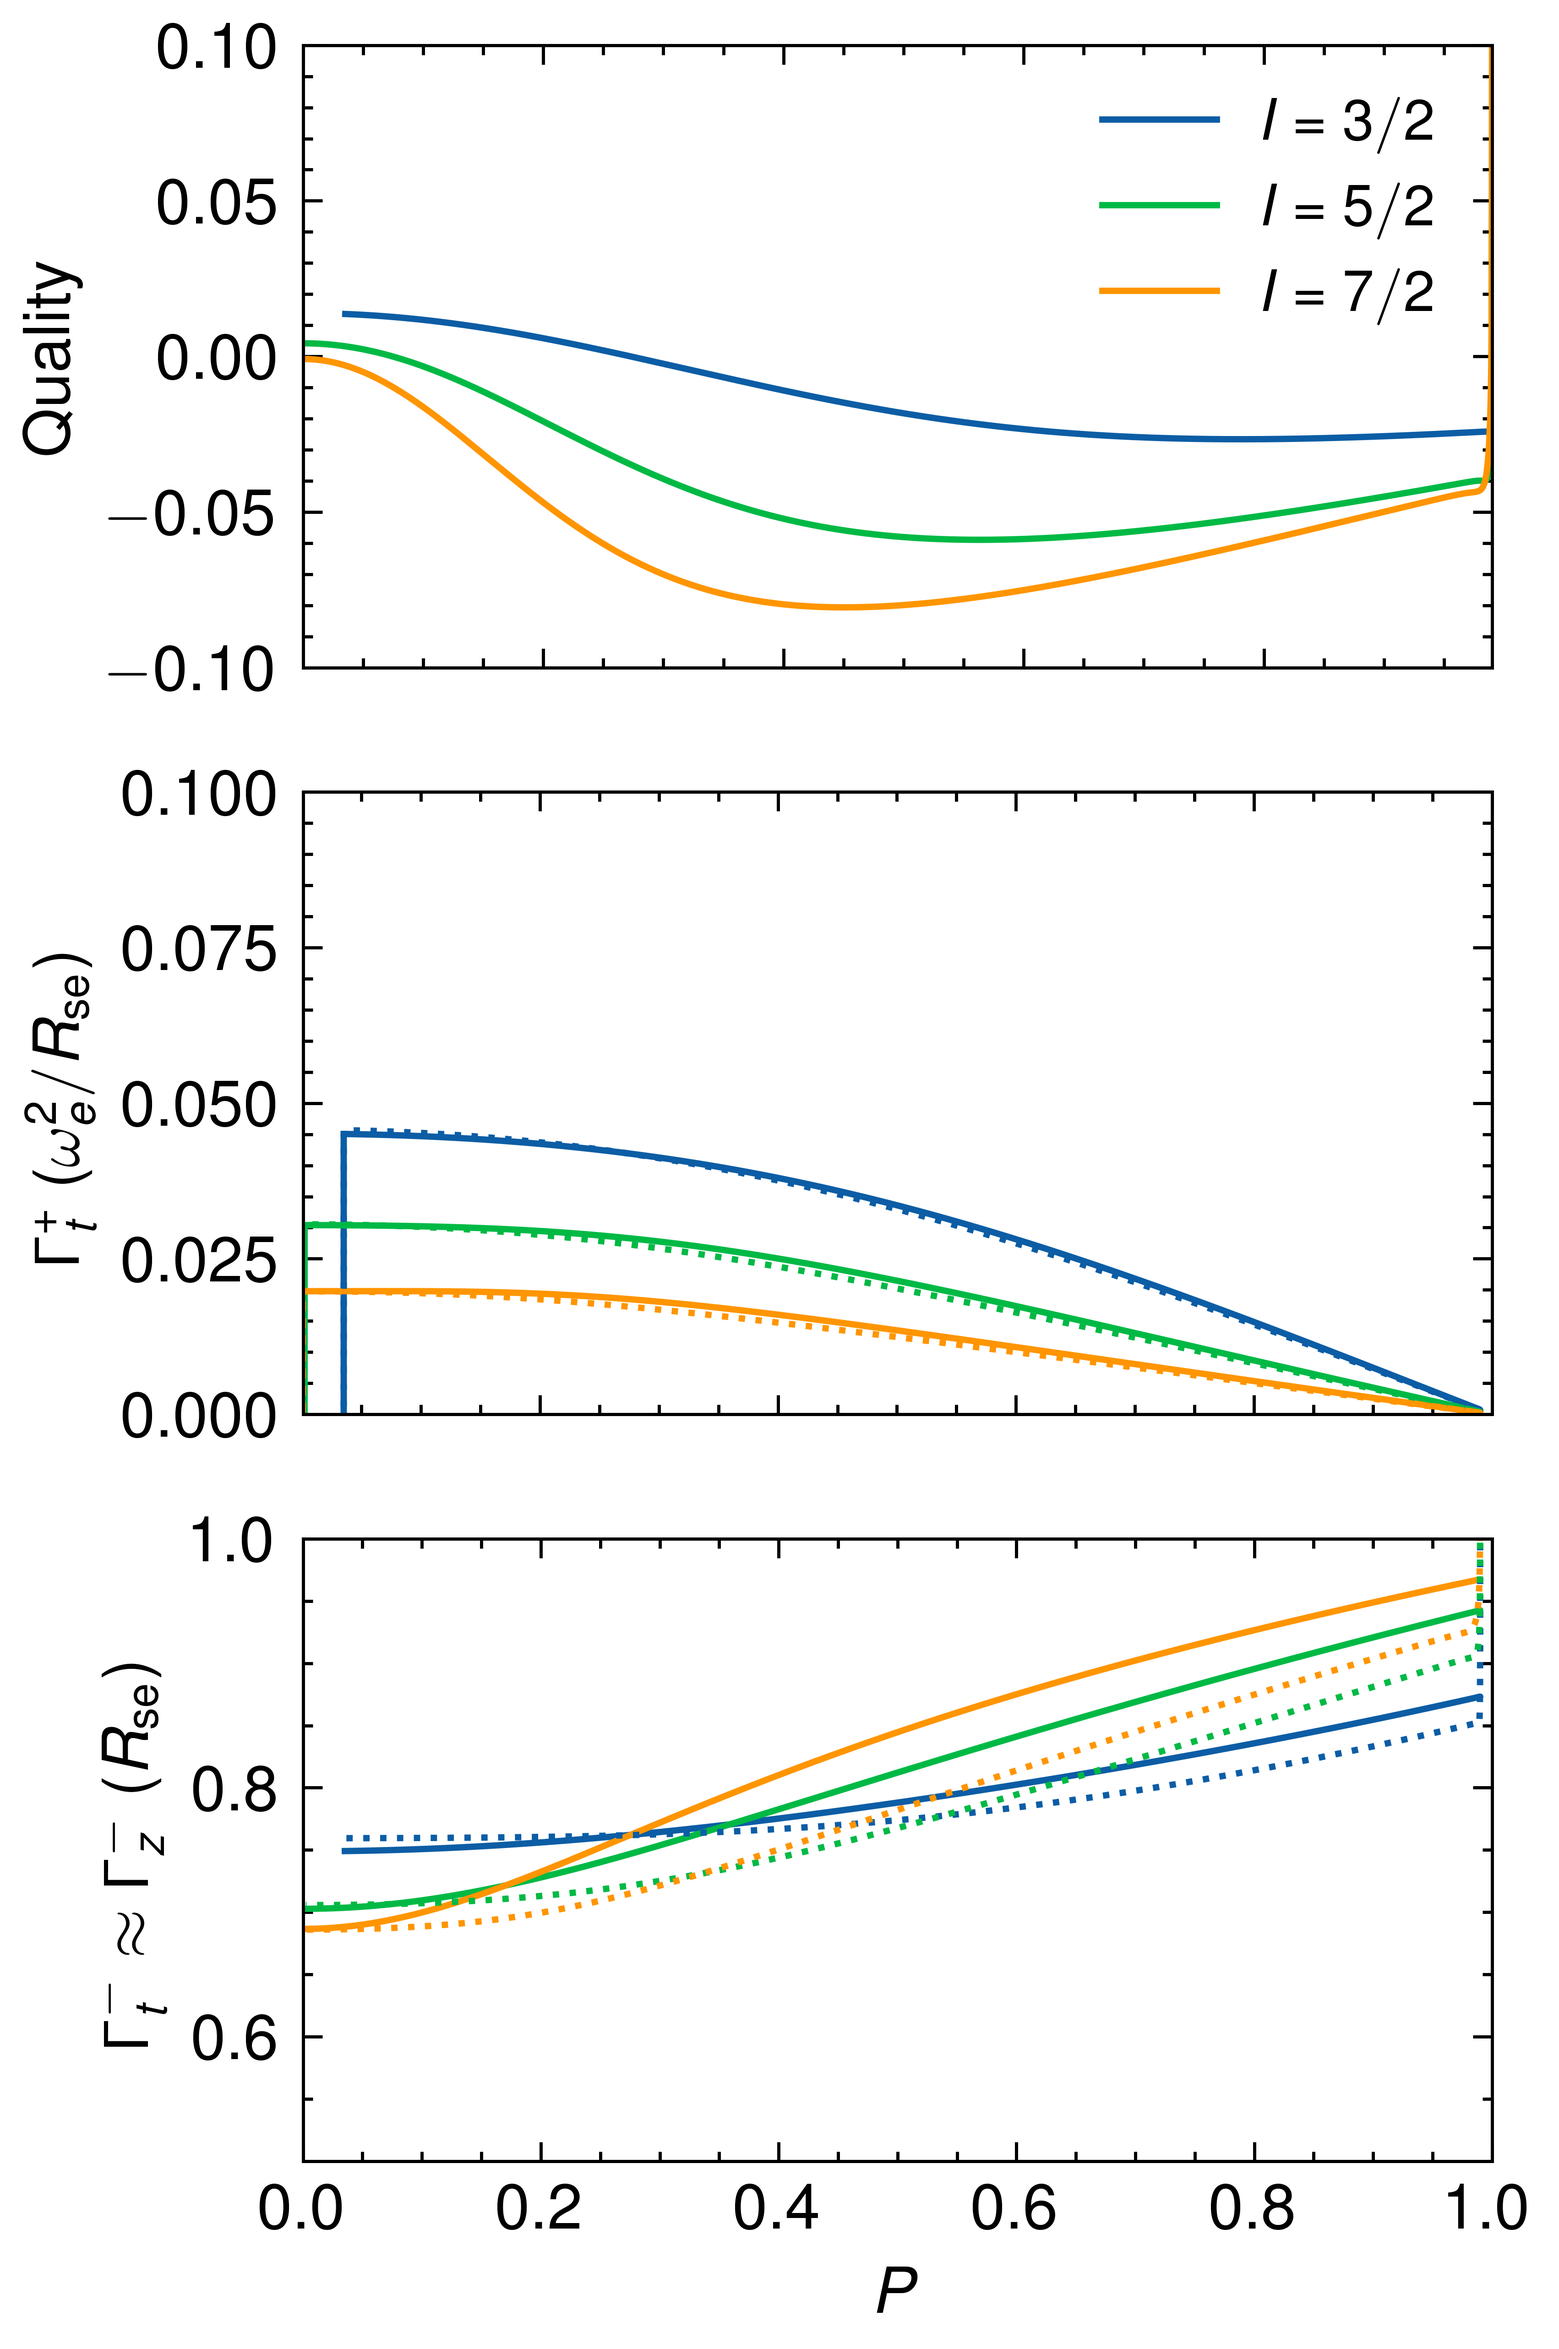
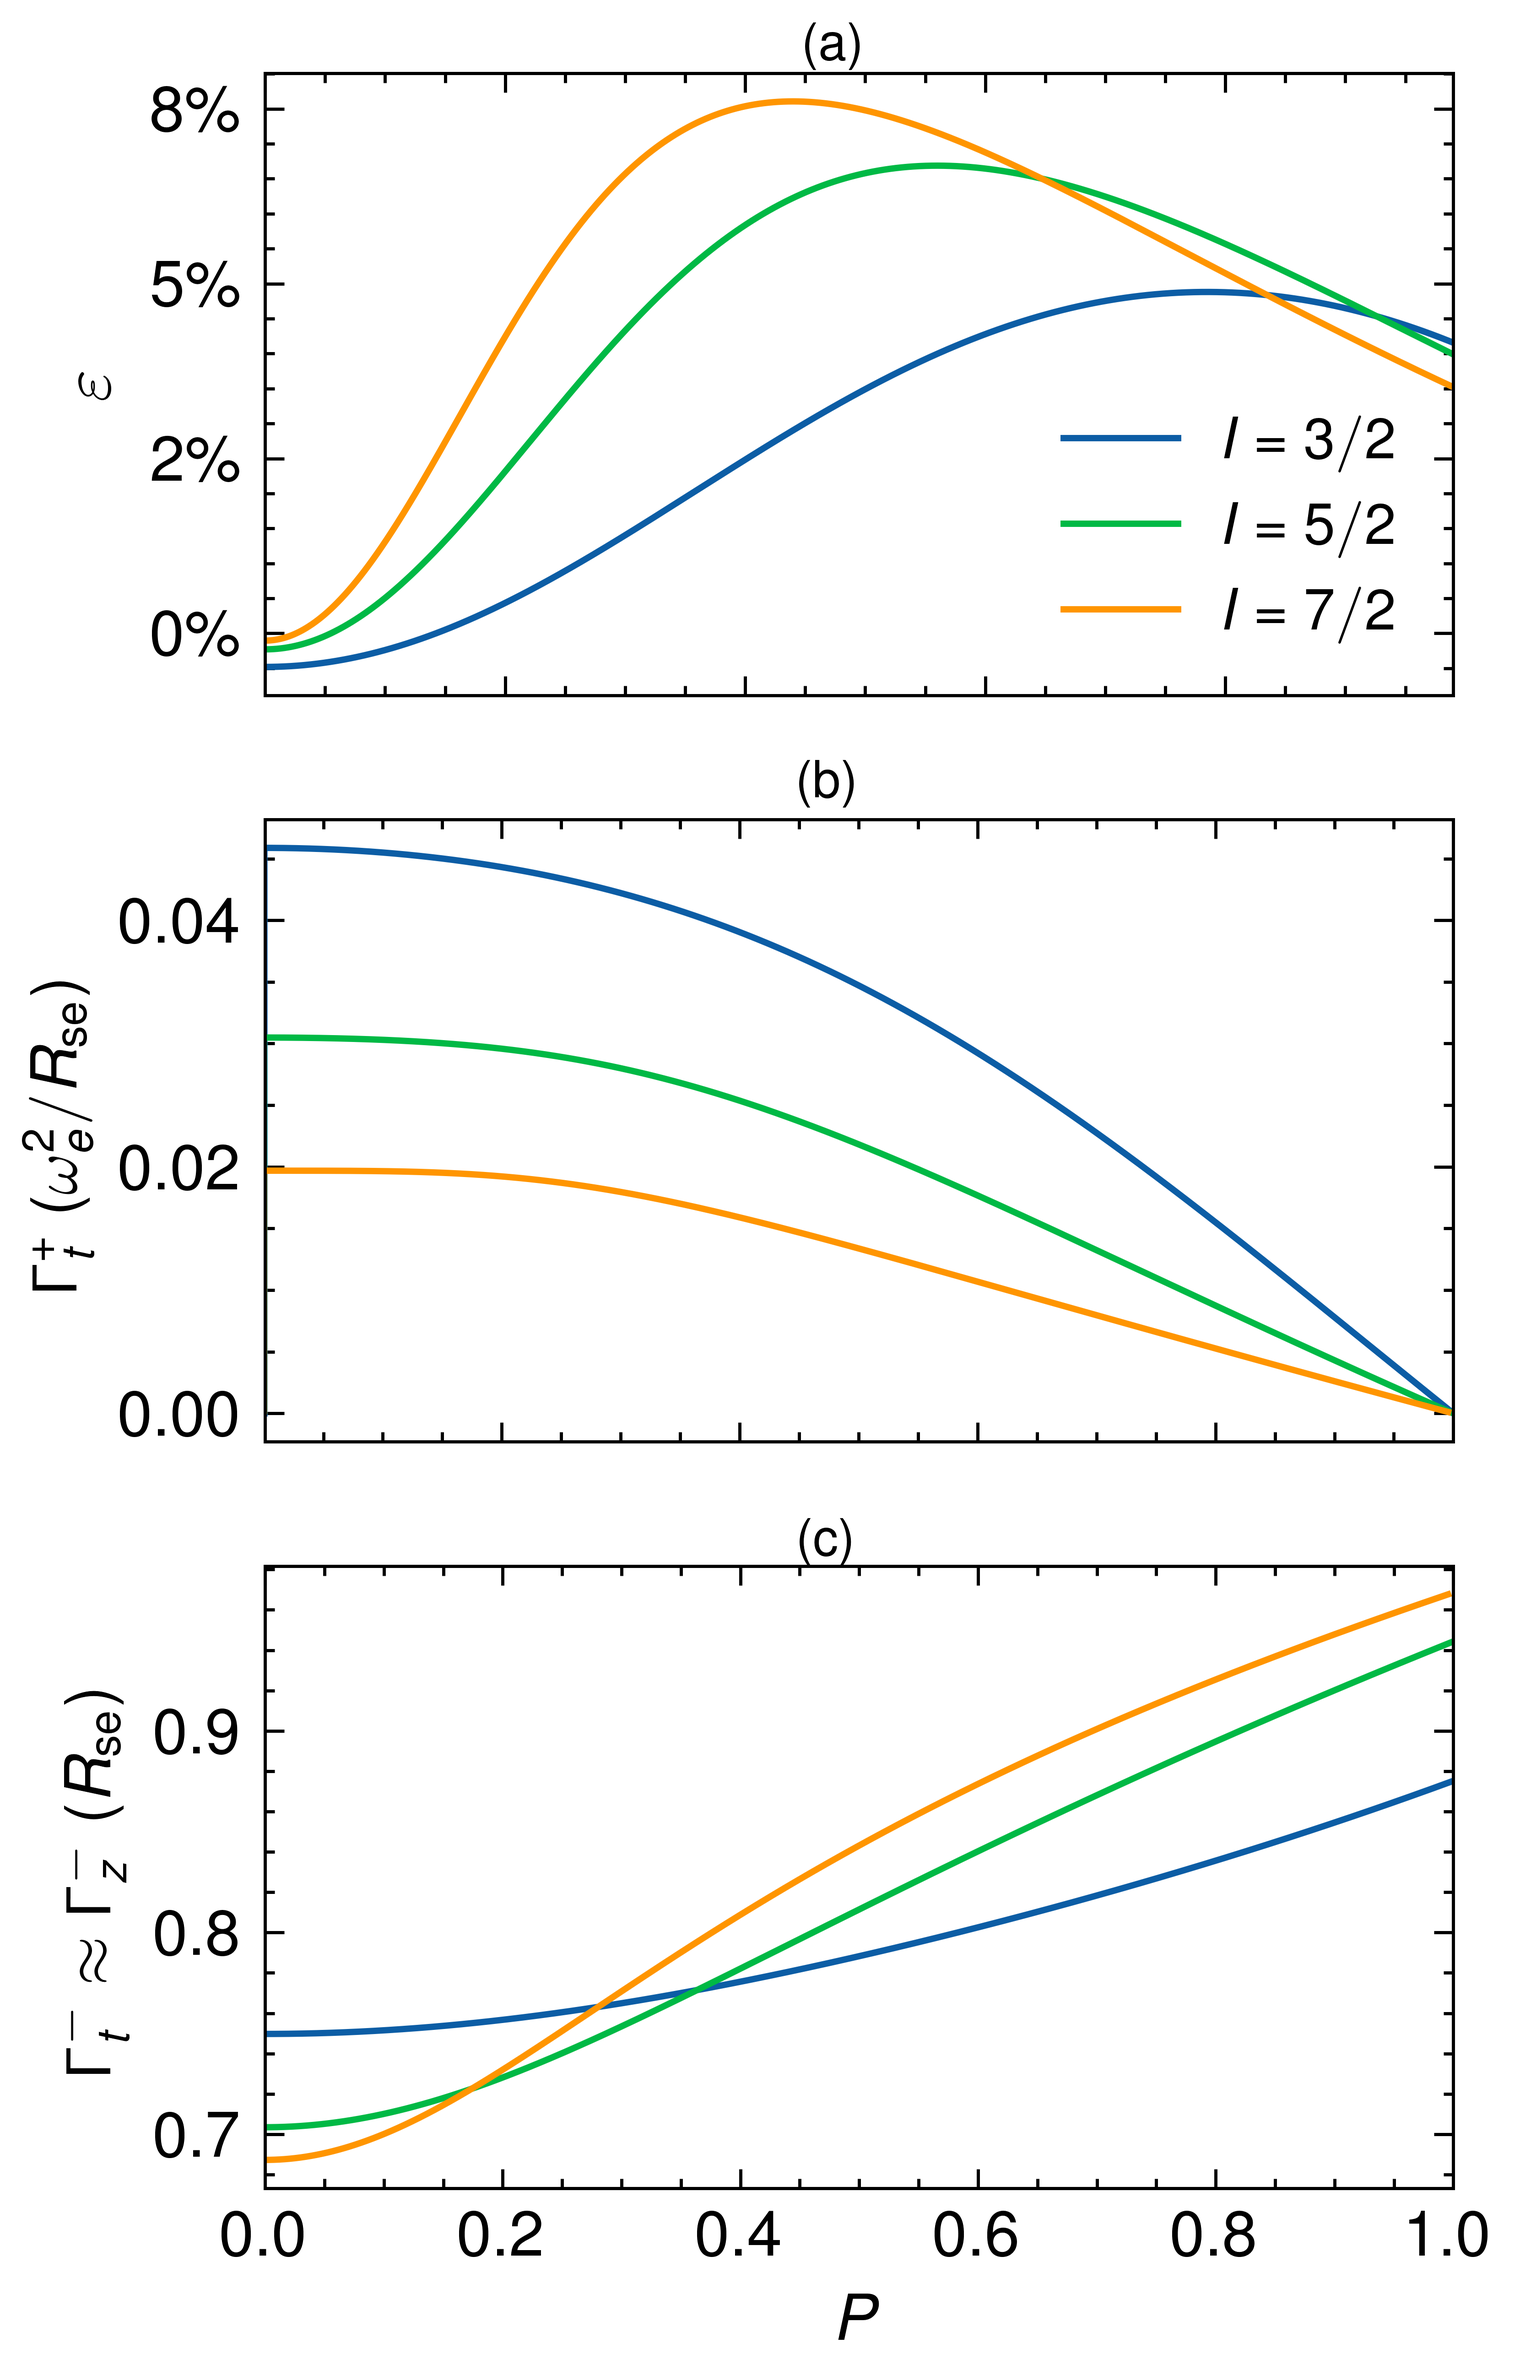
9

diff --git a/Gamma.py b/Gamma.py
@@ -8,15 +8,15 @@ from my_functions.master_relaxationrate import masterequation
 from scipy.linalg import *
 import numpy as np
 from my_functions.test7_copy import gammam
+from matplotlib import ticker
 
 I=3/2
-omega_0=0.01
 a = round(I + 1 / 2)
 b = round(I - 1 / 2)
 
-PP1,DD1=masterequation(3/2,round(6e4),0.1,0.99)
-PP2,DD2=masterequation(5/2,round(6e4),0.1,0.99)
-PP3,DD3=masterequation(7/2,round(6e4),0.1,0.99)
+PP1,DD1=masterequation(3/2,round(5e5),0.05,0.999)
+PP2,DD2=masterequation(5/2,round(5e5),0.05,0.999)
+PP3,DD3=masterequation(7/2,round(5e5),0.05,0.999)
 
 z=gammam(3/2,PP1)
 zz=gammam(5/2,PP2)
@@ -37,9 +37,13 @@ eta3=(q3+8)/(q3-8)
 fp3 = (q3-8)**2*(q3+8)/(2*64*q3**3)#*(q3+8)/(q3-8)
 fm3 =  2*q3/(q3-8)#*(q3-8)/(q3+8)
 
-kappa1=(fp1/DD1-z/fm1)/2
-kappa2=(fp2/DD2-zz/fm2)/2
-kappa3=(fp3/DD3-zzz/fm3)/2
+# kappa1=(fp1/DD1-z/fm1)/2
+# kappa2=(fp2/DD2-zz/fm2)/2
+# kappa3=(fp3/DD3-zzz/fm3)/2
+
+kappa1=(-z/fm1)
+kappa2=(-zz/fm2)
+kappa3=(-zzz/fm3)
 
 Gammap1=4*eta1/(kappa1*16*(1+eta1)**3)
 Gammap2=4*eta2/(kappa2*36*(1+eta2)**3)
@@ -54,16 +58,17 @@ with plt.style.context(['science','nature']):
     fig = plt.figure(figsize=(3.35, 6))
     plt.rc('font',family='Times New Roman')
     ax1 = fig.add_subplot(311)
-    ax1.plot(PP1,(fp1/DD1+z/fm1)/(fp1/DD1-z/fm1))
-    ax1.plot(PP2,(fp2/DD2+zz/fm2)/(fp2/DD2-zz/fm2))
-    ax1.plot(PP3,(fp3/DD3+zzz/fm3)/(fp3/DD3-zzz/fm3))
+    ax1.plot(PP1,-(fp1/DD1+z/fm1)/(fp1/DD1-z/fm1))
+    ax1.plot(PP2,-(fp2/DD2+zz/fm2)/(fp2/DD2-zz/fm2))
+    ax1.plot(PP3,-(fp3/DD3+zzz/fm3)/(fp3/DD3-zzz/fm3))
     # ax1.plot(PP3,-fp3*fm3/DD3/zzz*0+1,linestyle='dotted')
     ax1.set_xlim([0.,0.99])
-    ax1.set_ylim([-0.1,0.1])
-    ax1.set_ylabel('Quality', fontsize=10)
+    # ax1.set_ylim([-0.1,0.1])
+    ax1.set_ylabel('$\\varepsilon$', fontsize=11)
     ax1.tick_params(axis='x', labelsize='10' )
     ax1.tick_params(axis='y', labelsize='10' )
-    # ax1.text(0.45, 0.11, '(a)',fontsize=8)
+    ax1.yaxis.set_major_formatter(ticker.PercentFormatter(xmax=1, decimals=0))
+    ax1.text(0.45, 0.082, '(a)',fontsize=8)
     ax1.axes.xaxis.set_ticklabels([])
 
     ax2 = fig.add_subplot(312)
@@ -74,12 +79,12 @@ with plt.style.context(['science','nature']):
     ax2.plot([],[])
     ax2.plot([],[])
     ax2.plot([],[])
-    ax2.plot(PP1, Gammap1,linestyle='dotted')
-    ax2.plot(PP2, Gammap2,linestyle='dotted')
-    ax2.plot(PP3, Gammap3,linestyle='dotted')
-    # ax2.text(0.45, 0.05, '(b)',fontsize=8)
+    # ax2.plot(PP1, Gammap1,linestyle='dotted')
+    # ax2.plot(PP2, Gammap2,linestyle='dotted')
+    # ax2.plot(PP3, Gammap3,linestyle='dotted')
+    ax2.text(0.45, 0.05, '(b)',fontsize=8)
     ax2.set_xlim([0.001,1])
-    ax2.set_ylim([0,0.1])
+    # ax2.set_ylim([0,0.1])
 
     ax2.set_ylabel('$\Gamma^+_t$ $(\omega_e^2/R_{\\rm{se}})$', fontsize=10)
     ax2.tick_params(axis='x', labelsize='10' )
@@ -94,21 +99,21 @@ with plt.style.context(['science','nature']):
     ax3.plot([],[])
     ax3.plot([],[])
     ax3.plot([],[])
-    ax3.plot(PP1, Gammam1,linestyle='dotted')
-    ax3.plot(PP2, Gammam2,linestyle='dotted')
-    ax3.plot(PP3, Gammam3,linestyle='dotted')
+    # ax3.plot(PP1, Gammam1,linestyle='dotted')
+    # ax3.plot(PP2, Gammam2,linestyle='dotted')
+    # ax3.plot(PP3, Gammam3,linestyle='dotted')
     ax1.legend(["$ I=3/2$", "$ I=5/2$", "$ I=7/2$"],
-               loc='upper right', prop={'size': 9})
+               loc='lower right', prop={'size': 9})
     ax3.set_xlabel('$P$', fontsize=10)
     ax3.set_ylabel('$\Gamma_t^- \\approx \Gamma_z^-$ ($R_{\\rm{se}}$) ', fontsize=10)
     ax3.tick_params(axis='x', labelsize='10' )
     ax3.tick_params(axis='y', labelsize='10' )
-    # ax3.text(0.45, 0.985, '(c)',fontsize=8)
+    ax3.text(0.45, 0.987, '(c)',fontsize=8)
     # p24=ax2.plot(PP, h*np.ones(bound),linestyle='dotted')
     # p25=ax2.plot(PP, hh*np.ones(bound),linestyle='dotted')
     # p26=ax2.plot(PP, hhh*np.ones(bound),linestyle='dotted')
     ax3.set_xlim([0,1])
-    ax3.set_ylim([0.5,1])
+    # ax3.set_ylim([0.5,1])
 
 plt.savefig('Gamma_.png', dpi=1000)
 plt.show()

diff --git a/my_functions/test7_copy.py b/my_functions/test7_copy.py
@@ -95,7 +95,7 @@ def gammam(I,PP):
         #  zhao's metheod
         # byy0=np.trace((eta*by-ay) @ Rhot)
         
-        for k in np.arange(0,5,1):
+        for k in np.arange(0,2,1):
             Rhot = hyperfine * Rhot
             x1 = Rhot @ Sx
             x2 = Rhot @ Sy
@@ -120,7 +120,7 @@ def gammam(I,PP):
         Fxm = np.trace((ax-eta*bx)@Rhot)
         Fym = np.trace((ay-eta*by)@Rhot)
         Fp= np.sqrt((Fxm-Fxm*ex)**2+(Fym-Fym*ey)**2)
-        Fmmt[n]=(Fp-Fp0)/(5*dt)/Fp0
+        Fmmt[n]=(Fp-Fp0)/(2*dt)/Fp0
 
         # zhao's metheod
         # byy=np.trace((eta*by-ay) @ Rhot)

diff --git a/my_functions/master_relaxationrate.py b/my_functions/master_relaxationrate.py
@@ -68,7 +68,7 @@ def masterequation(I,cycle,omega_0,P):
     H = omega_0 * (az - bz)  # 投影定理
     q, v = np.linalg.eig(H)
     evolving_B = v @ np.diag(np.exp(-1j * q * dt)) @ np.linalg.inv(v)
-    for n in np.arange(50):
+    for n in np.arange(10000):
         # -----------------Evolution-----------------#
         x1 = Rhot @ Sx
         x2 = Rhot @ Sy
